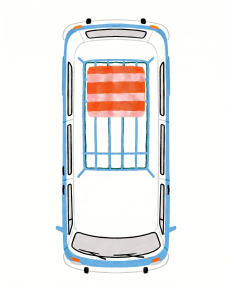
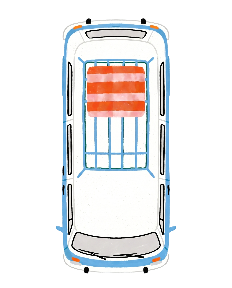
Keep exact Figma map static and move only the van
Stop panning the whole Van Page export. Use the no-van background as a fixed layer and animate the separate Figma van overlay along the road.

diff --git a/src/app/components/MindMap.tsx b/src/app/components/MindMap.tsx
@@ -1,5 +1,6 @@
 import { useEffect, useRef } from "react";
-import vanPage from "@/assets/map/figma/van-page.png";
+import mapBackground from "@/assets/map/figma/van-page.png";
+import journeyVan from "@/assets/map/figma/journey-van.png";
 
 type MindMapProps = {
   completed?: boolean;
@@ -19,20 +20,31 @@ export default function MindMap({
   onArrivedRef.current = onArrived;
 
   useEffect(() => {
-    if (!traveling || completed) return;
+    if (!traveling) return;
     arrivedRef.current = false;
 
-    const reduced = window.matchMedia("(prefers-reduced-motion: reduce)").matches;
-    const delayMs = reduced ? 120 : 4500;
-
-    const timer = window.setTimeout(() => {
-      if (arrivedRef.current) return;
+    const fallback = window.setTimeout(() => {
+      if (arrivedRef.current || completed) return;
       arrivedRef.current = true;
       onArrivedRef.current?.();
-    }, delayMs);
+    }, 4800);
 
+    return () => window.clearTimeout(fallback);
+  }, [completed, traveling]);
+
+  useEffect(() => {
+    if (!traveling || completed || arrivedRef.current) return;
+    if (!window.matchMedia("(prefers-reduced-motion: reduce)").matches) return;
+    arrivedRef.current = true;
+    const timer = window.setTimeout(() => onArrivedRef.current?.(), 120);
     return () => window.clearTimeout(timer);
   }, [completed, traveling]);
+
+  const handleTravelEnd = (event: React.AnimationEvent<HTMLImageElement>) => {
+    if (event.animationName !== "van-travel" || arrivedRef.current) return;
+    arrivedRef.current = true;
+    onArrivedRef.current?.();
+  };
 
   return (
     <section
@@ -49,14 +61,24 @@ export default function MindMap({
       }
     >
       <div className="map-world">
-        {/* Exact Figma export of Van Page 2205:11235 — unchanged */}
+        {/* Exact Figma Van Page background (2205:11235) — static */}
         <img
           className="map-exact"
-          src={vanPage}
-          alt="Your Mind Map"
+          src={mapBackground}
+          alt=""
           width={393}
           height={852}
           draggable={false}
+        />
+        {/* Figma van 2205:11430 — moves on top of the background */}
+        <img
+          className="map-world__van"
+          src={journeyVan}
+          alt="Your van"
+          width={118}
+          height={146}
+          draggable={false}
+          onAnimationEnd={handleTravelEnd}
         />
       </div>
     </section>

diff --git a/src/styles/experience.css b/src/styles/experience.css
@@ -137,17 +137,6 @@ button {
   inset: 0;
   width: 393px;
   height: 852px;
-  transform: translate3d(0, 0, 0);
-  will-change: transform;
-}
-
-.mind-map--traveling .map-world {
-  animation: map-camera var(--travel-duration) cubic-bezier(.45, 0, .22, 1) both;
-}
-
-.mind-map--arrived .map-world,
-.mind-map--completed .map-world {
-  transform: translate3d(0, 36px, 0);
 }
 
 .map-exact {
@@ -161,6 +150,47 @@ button {
   pointer-events: none;
   user-select: none;
 }
+
+/* Figma van 2205:11430 — only the van moves */
+.map-world__van {
+  position: absolute;
+  z-index: 4;
+  left: 0;
+  top: 0;
+  width: 117.79674530029297px;
+  height: 146.23045349121094px;
+  max-width: none;
+  object-fit: fill;
+  transform: matrix(
+    -0.7880107164382935,
+    -0.6156614422798157,
+    0.6156614422798157,
+    -0.7880107164382935,
+    158.29881286621094,
+    557.7612915039062
+  );
+  transform-origin: 0 0;
+  will-change: transform;
+  pointer-events: none;
+  user-select: none;
+}
+
+.mind-map--traveling .map-world__van {
+  animation: van-travel var(--travel-duration) linear both;
+}
+
+.mind-map--arrived .map-world__van,
+.mind-map--completed .map-world__van {
+  transform: matrix(
+    -0.7880107164382935,
+    -0.6156614422798157,
+    0.6156614422798157,
+    -0.7880107164382935,
+    220,
+    250
+  );
+}
+
 
 
 .map-status,
@@ -589,11 +619,7 @@ button {
   transition: transform 340ms cubic-bezier(.4, .05, .25, 1);
 }
 
-@keyframes map-camera {
-  from { transform: translate3d(0, 0, 0); }
-  to { transform: translate3d(0, 36px, 0); }
-}
-
+/* Only the van moves — map background stays fixed */
 @keyframes van-travel {
   0% { transform: matrix(-0.7880107164382935, -0.6156614422798157, 0.6156614422798157, -0.7880107164382935, 158.29881286621094, 557.7612915039062); }
   5% { transform: matrix(-0.7880107164382935, -0.6156614422798157, 0.6156614422798157, -0.7880107164382935, 161.38387222290038, 542.3732269287109); }
@@ -629,7 +655,6 @@ button {
 }
 
 @media (prefers-reduced-motion: reduce) {
-  .mind-map--traveling .map-world,
   .mind-map--traveling .map-world__van {
     animation-duration: 1ms;
   }

diff --git a/src/app/App.tsx b/src/app/App.tsx
@@ -9,6 +9,7 @@ import {
   type EventProgress,
 } from "@/app/data/events";
 import vanPage from "@/assets/map/figma/van-page.png";
+import journeyVan from "@/assets/map/figma/journey-van.png";
 import coast from "@/assets/placement/coast.png";
 import placementVan from "@/assets/placement/van.png";
 
@@ -79,7 +80,7 @@ export default function App() {
 
   useEffect(() => {
     // Never block the first paint on asset decode — show the map immediately.
-    preloadImages([vanPage]);
+    preloadImages([vanPage, journeyVan]);
     travelStartTimer.current = window.setTimeout(() => setTraveling(true), 850);
     return () => {
       window.clearTimeout(travelStartTimer.current);
